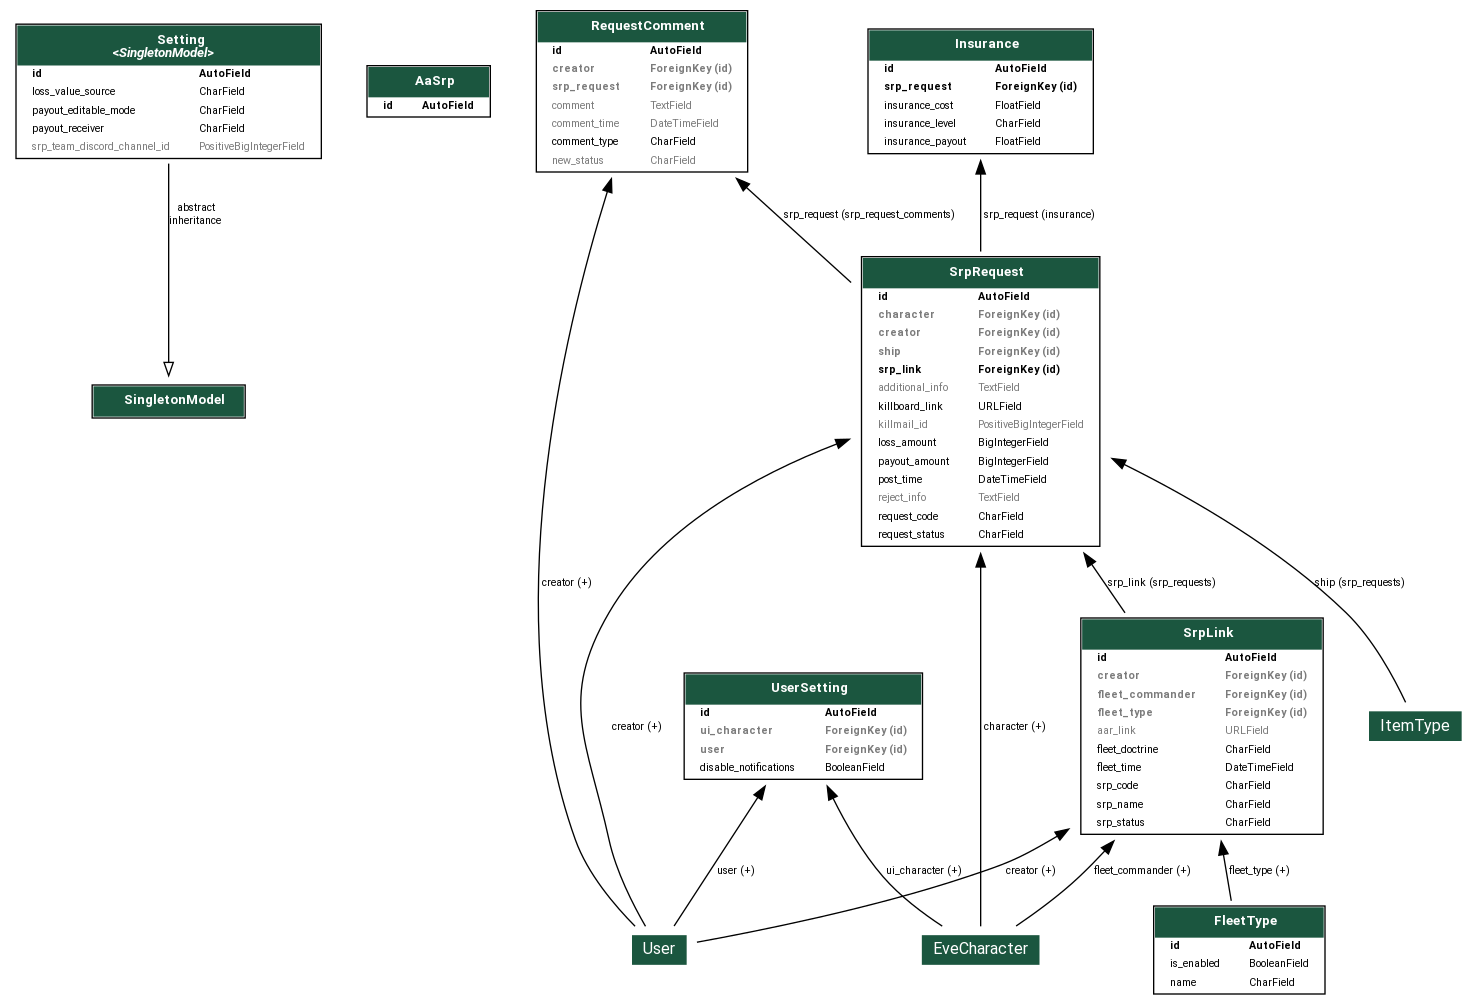
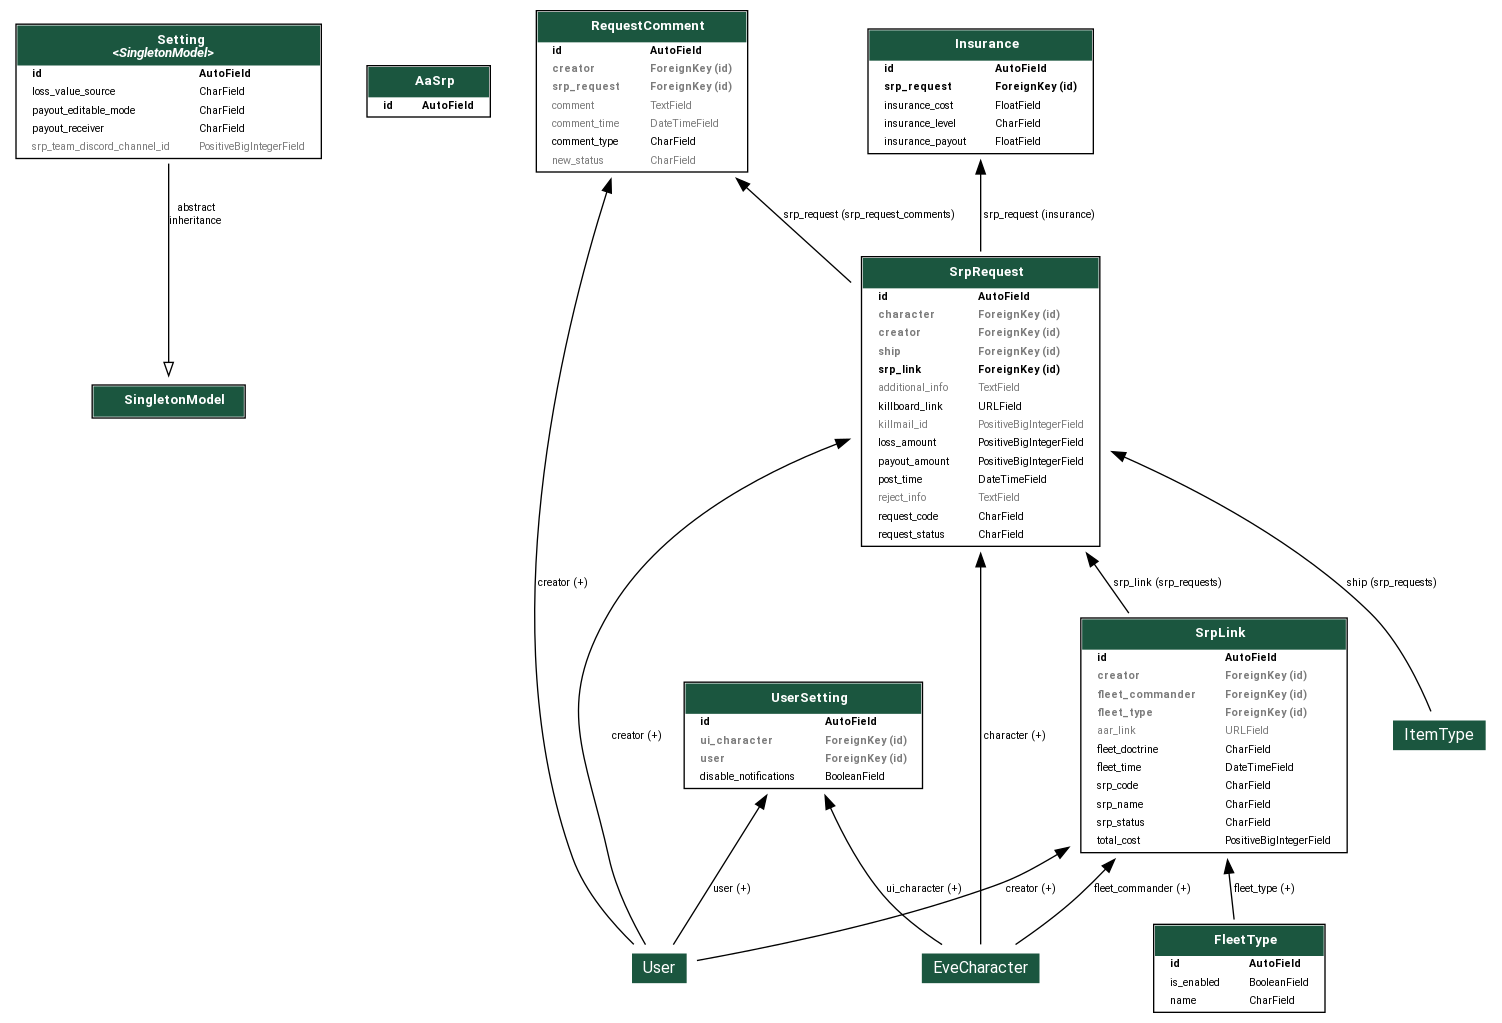
[RELEASE] v5.7.0
## [5.7.0] - 2026-11-07

### Added

- `total_cost` property to the `SrpLink` model, which calculates the total cost of all
  SRP requests for that link to improve performance when displaying the total cost in
  the Dashboard view
- DataTable column indices for easier reference

### Fixed

- Date format in the Dashboard tables
- Put a permission lock on the "show_all_links" Ajax request, so that only users with
  the `aasrp.manage_srp` permission can see all SRP links when opening the Ajax link
  directly

### Changed

- Move helper functions into "global" JS
- Aggregate the total cost of all SRP links instead of running through all SRP requests
  to calculate the total cost, which should improve performance for instances with a
  lot of SRP links and requests

diff --git a/aasrp/__init__.py b/aasrp/__init__.py
@@ -6,7 +6,7 @@ This module defines metadata and constants for the Ship Replacement Program (SRP
 # Django
 from django.utils.translation import gettext_lazy as _
 
-__version__ = "5.6.1"
+__version__ = "5.7.0"
 __title__ = "Ship Replacement"
 __title_translated__ = _("Ship Replacement")
 __verbose_name__ = "Ship Replacement (SRP) for Alliance Auth"

diff --git a/CHANGELOG.md b/CHANGELOG.md
@@ -48,6 +48,8 @@ Section Order:
 
 <!-- Your changes go here -->
 
+## [5.7.0] - 2026-11-07
+
 ### Added
 
 - `total_cost` property to the `SrpLink` model, which calculates the total cost of all
@@ -96,7 +98,8 @@ Section Order:
 
 ### Changed
 
-- Dashboard DataTables are now server-side processed, which should improve performance for users with a lot of SRP links and requests
+- Dashboard DataTables are now server-side processed, which should improve performance
+  for users with a lot of SRP links and requests
 
 ## [5.5.0] - 2026-11-04
 
@@ -1962,11 +1965,12 @@ python manage.py aasrp_update_db_relations
 [5.5.0]: https://github.com/ppfeufer/aa-srp/compare/v5.4.0...v5.5.0 "v5.5.0"
 [5.6.0]: https://github.com/ppfeufer/aa-srp/compare/v5.5.0...v5.6.0 "v5.6.0"
 [5.6.1]: https://github.com/ppfeufer/aa-srp/compare/v5.6.0...v5.6.1 "v5.6.1"
+[5.7.0]: https://github.com/ppfeufer/aa-srp/compare/v5.6.1...v5.7.0 "v5.7.0"
 [aa discord notify]: https://gitlab.com/ErikKalkoken/aa-discordnotify "AA Discord Notify"
 [aa fleet pings]: https://github.com/ppfeufer/aa-fleetpings "AA Fleet Pings"
 [aa-discordbot]: https://github.com/pvyParts/allianceauth-discordbot "AA-Discordbot"
 [evetools killboard]: https://kb.evetools.org/ "EveTools Killboard"
-[in development]: https://github.com/ppfeufer/aa-srp/compare/v5.6.1...HEAD "In Development"
+[in development]: https://github.com/ppfeufer/aa-srp/compare/v5.7.0...HEAD "In Development"
 [keep a changelog]: http://keepachangelog.com/ "Keep a Changelog"
 [semantic versioning]: http://semver.org/ "Semantic Versioning"
 [tooltip: change srp payout amount]: https://raw.githubusercontent.com/ppfeufer/aa-srp/master/docs/images/tooltip-change-srp-payout-amount.png "Tooltip: Change SRP Payout Amount"

diff --git a/README.md b/README.md
@@ -124,7 +124,7 @@ Make sure you're in the virtual environment (venv) of your Alliance Auth
 installation Then install the latest release directly from PyPi.
 
 ```shell
-pip install aa-srp==5.6.1
+pip install aa-srp==5.7.0
 ```
 
 #### Step 2: Configure Alliance Auth<a name="step-2-configure-alliance-auth"></a>
@@ -187,7 +187,7 @@ Restart your supervisor services for Auth
 Add the app to your `conf/requirements.txt`
 
 ```requirements
-aa-srp==5.6.1
+aa-srp==5.7.0
 ```
 
 #### Step 2: Update Your AA Settings<a name="step-2-update-your-aa-settings"></a>
@@ -313,7 +313,7 @@ To update your existing installation of AA SRP, first enable your virtual enviro
 Then run the following command to update AA SRP to the latest version.
 
 ```shell
-pip install aa-srp==5.6.1
+pip install aa-srp==5.7.0
 
 python manage.py collectstatic
 python manage.py migrate
@@ -329,7 +329,7 @@ To update your existing installation of AA SRP, first update the version in your
 `conf/requirements.txt` to the latest version.
 
 ```requirements
-aa-srp==5.6.1
+aa-srp==5.7.0
 ```
 
 Then build your Auth container and restart your containers.
